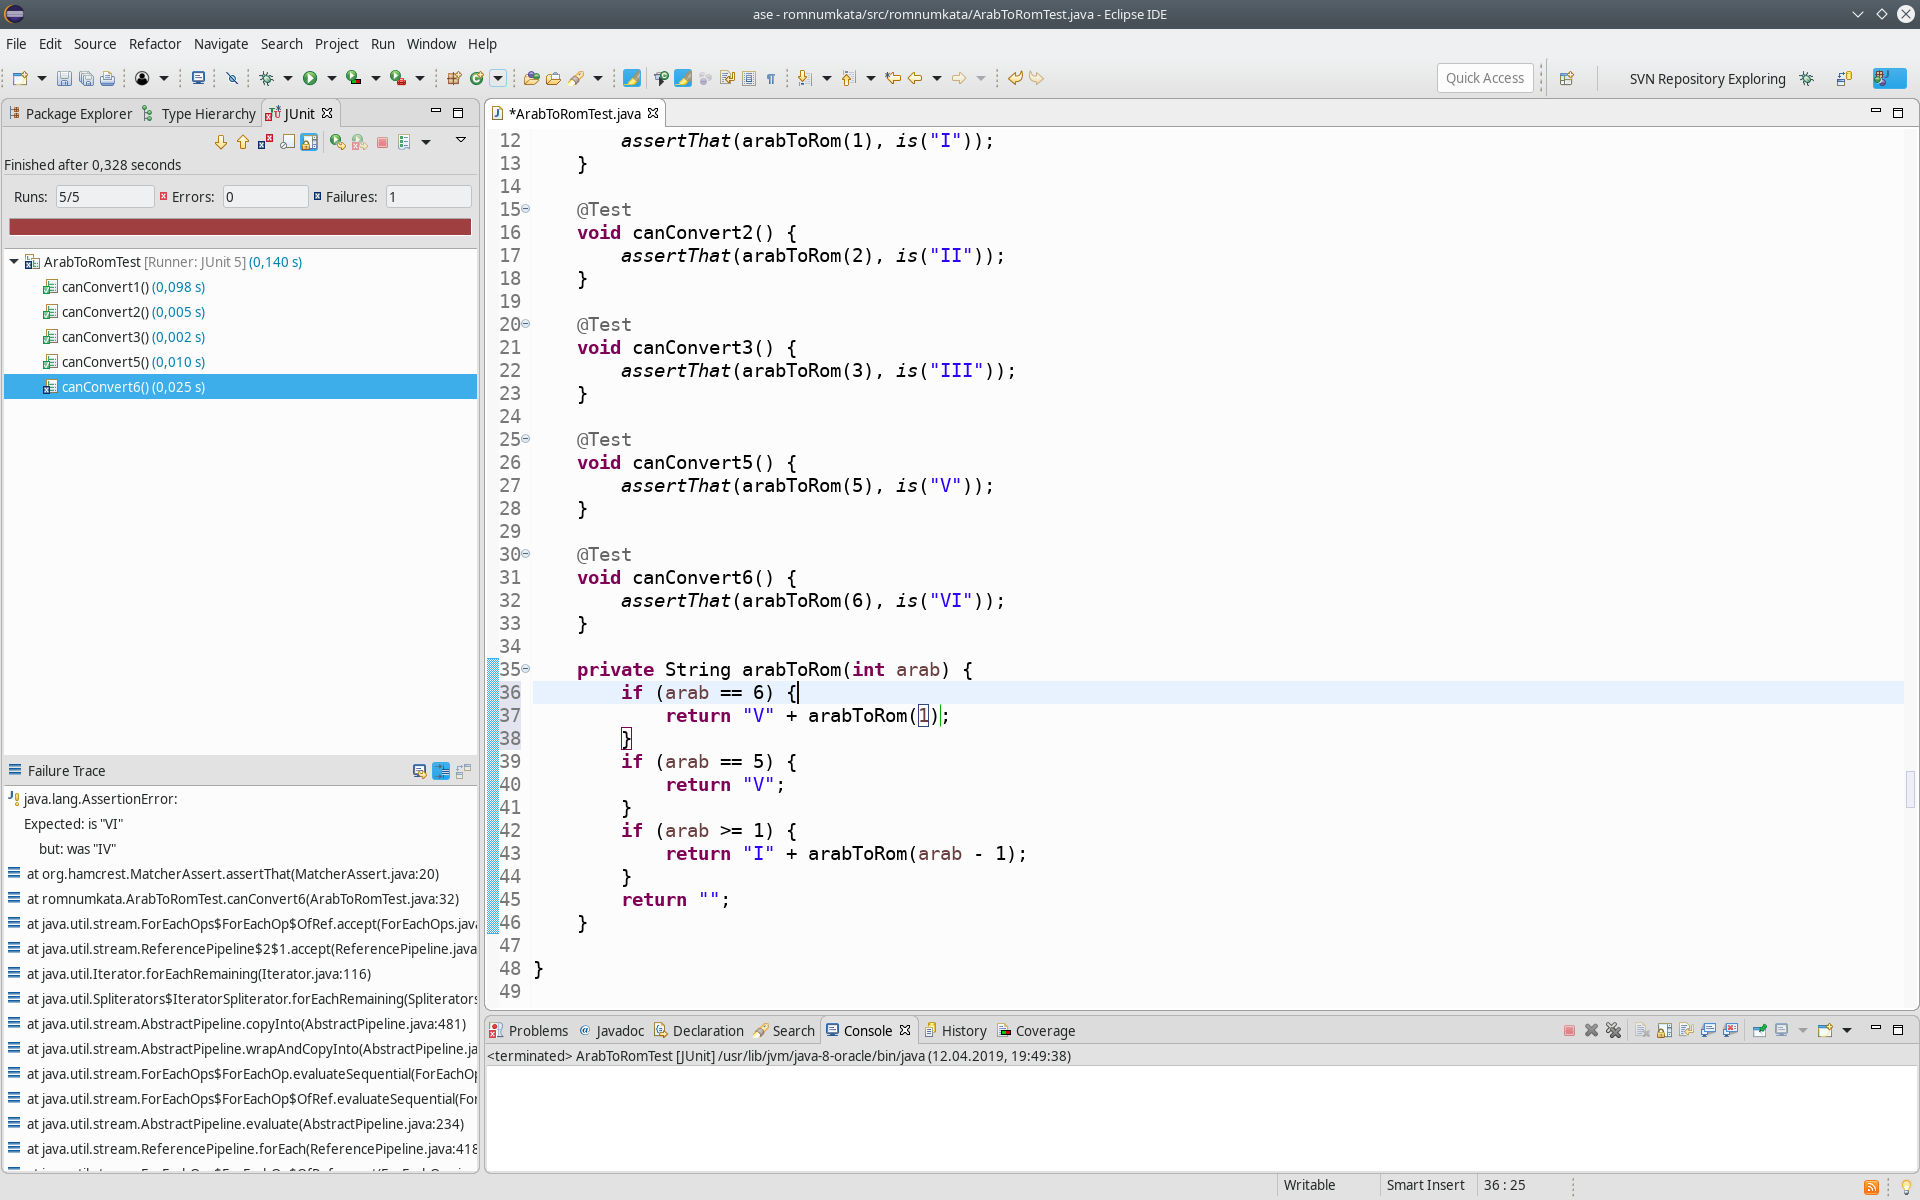
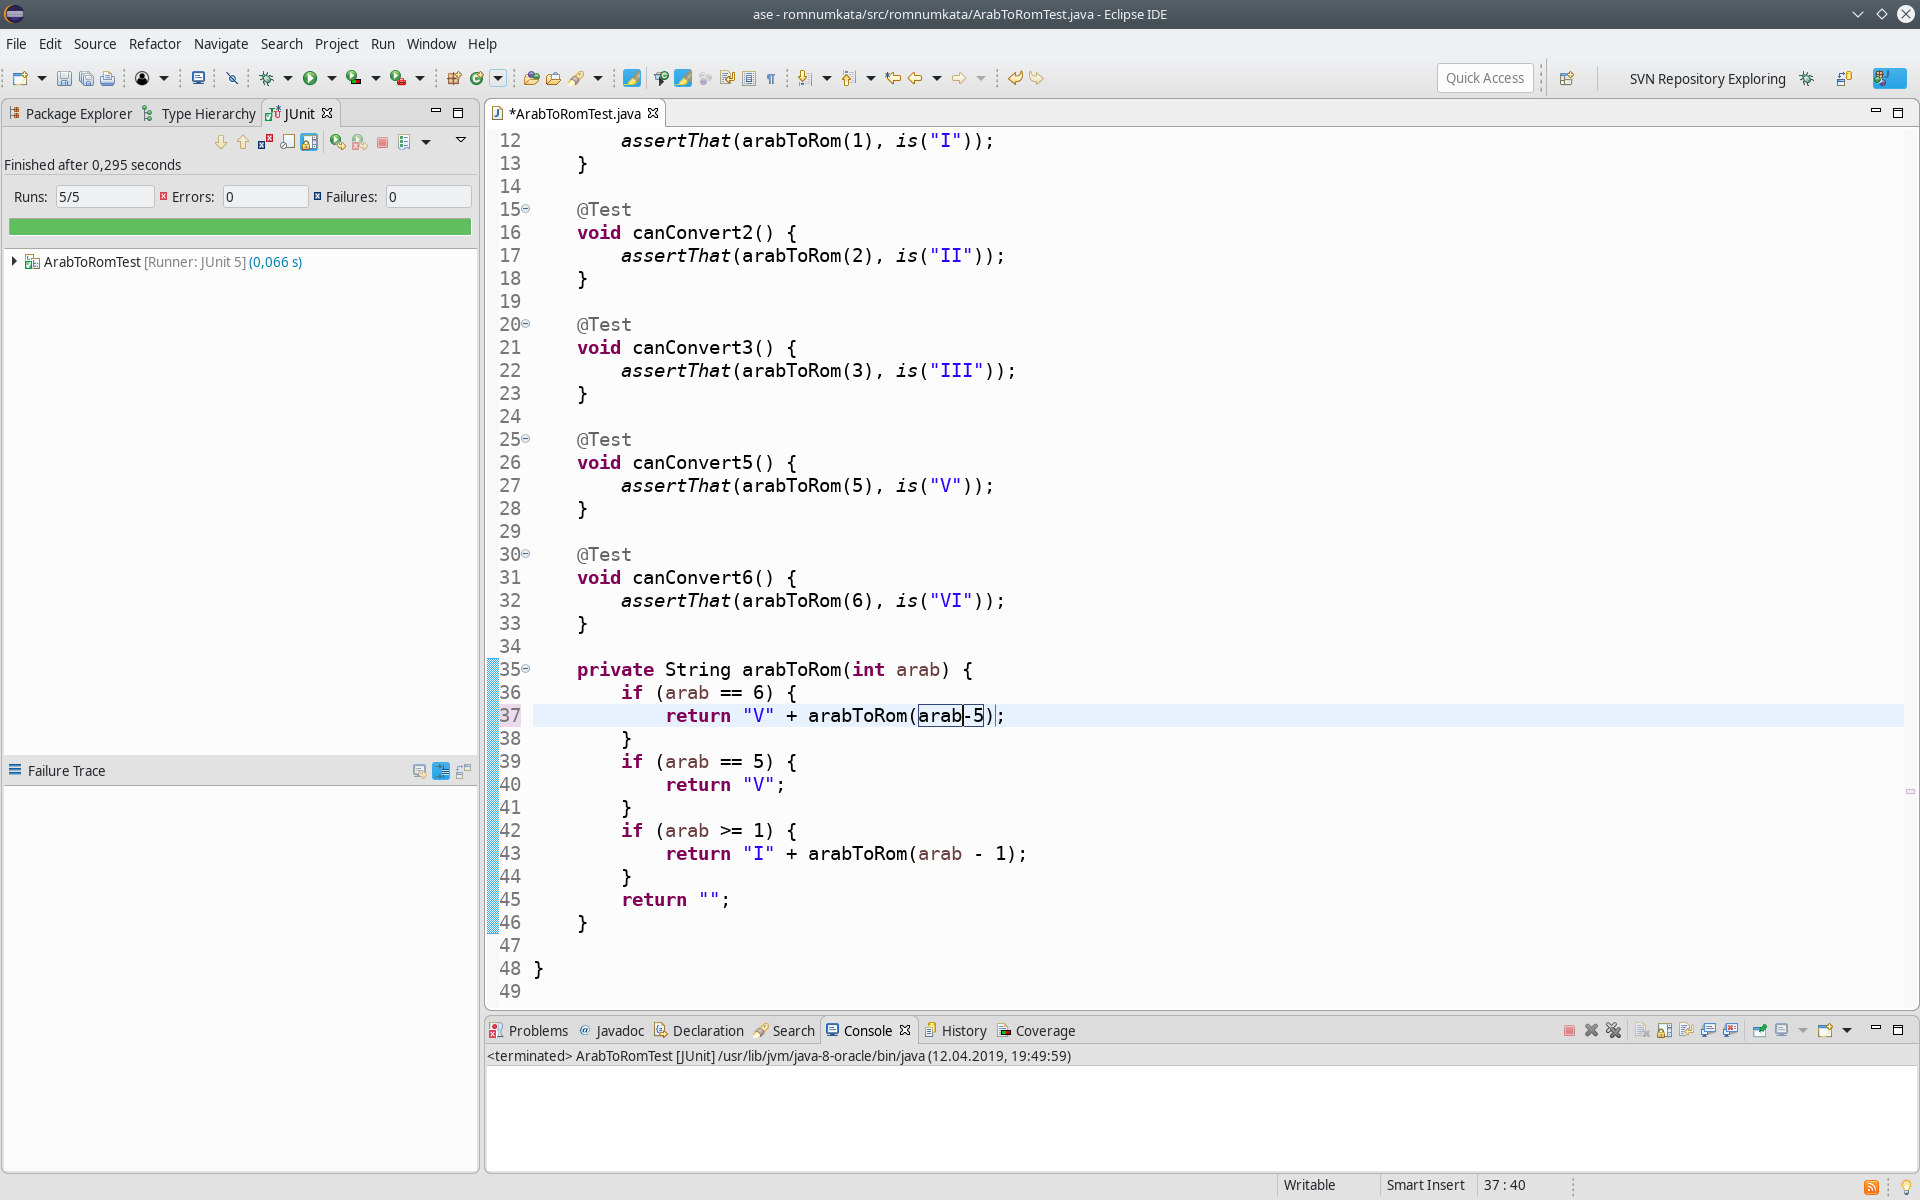
autocommit on change

Changed region(s): [[0.0, 0.6475, 0.25, 0.9867], [0.0, 0.1542, 0.25, 0.3392], [0.4688, 0.5858, 0.5312, 0.6167]]

diff --git a/src/romnumkata/ArabToRomTest.java b/src/romnumkata/ArabToRomTest.java
@@ -34,7 +34,7 @@ public class ArabToRomTest {
 
 	private String arabToRom(int arab) {
 		if (arab == 6) {
-			return "V" + arabToRom(1);
+			return "V" + arabToRom(arab-5);
 		}
 		if (arab == 5) {
 			return "V";
